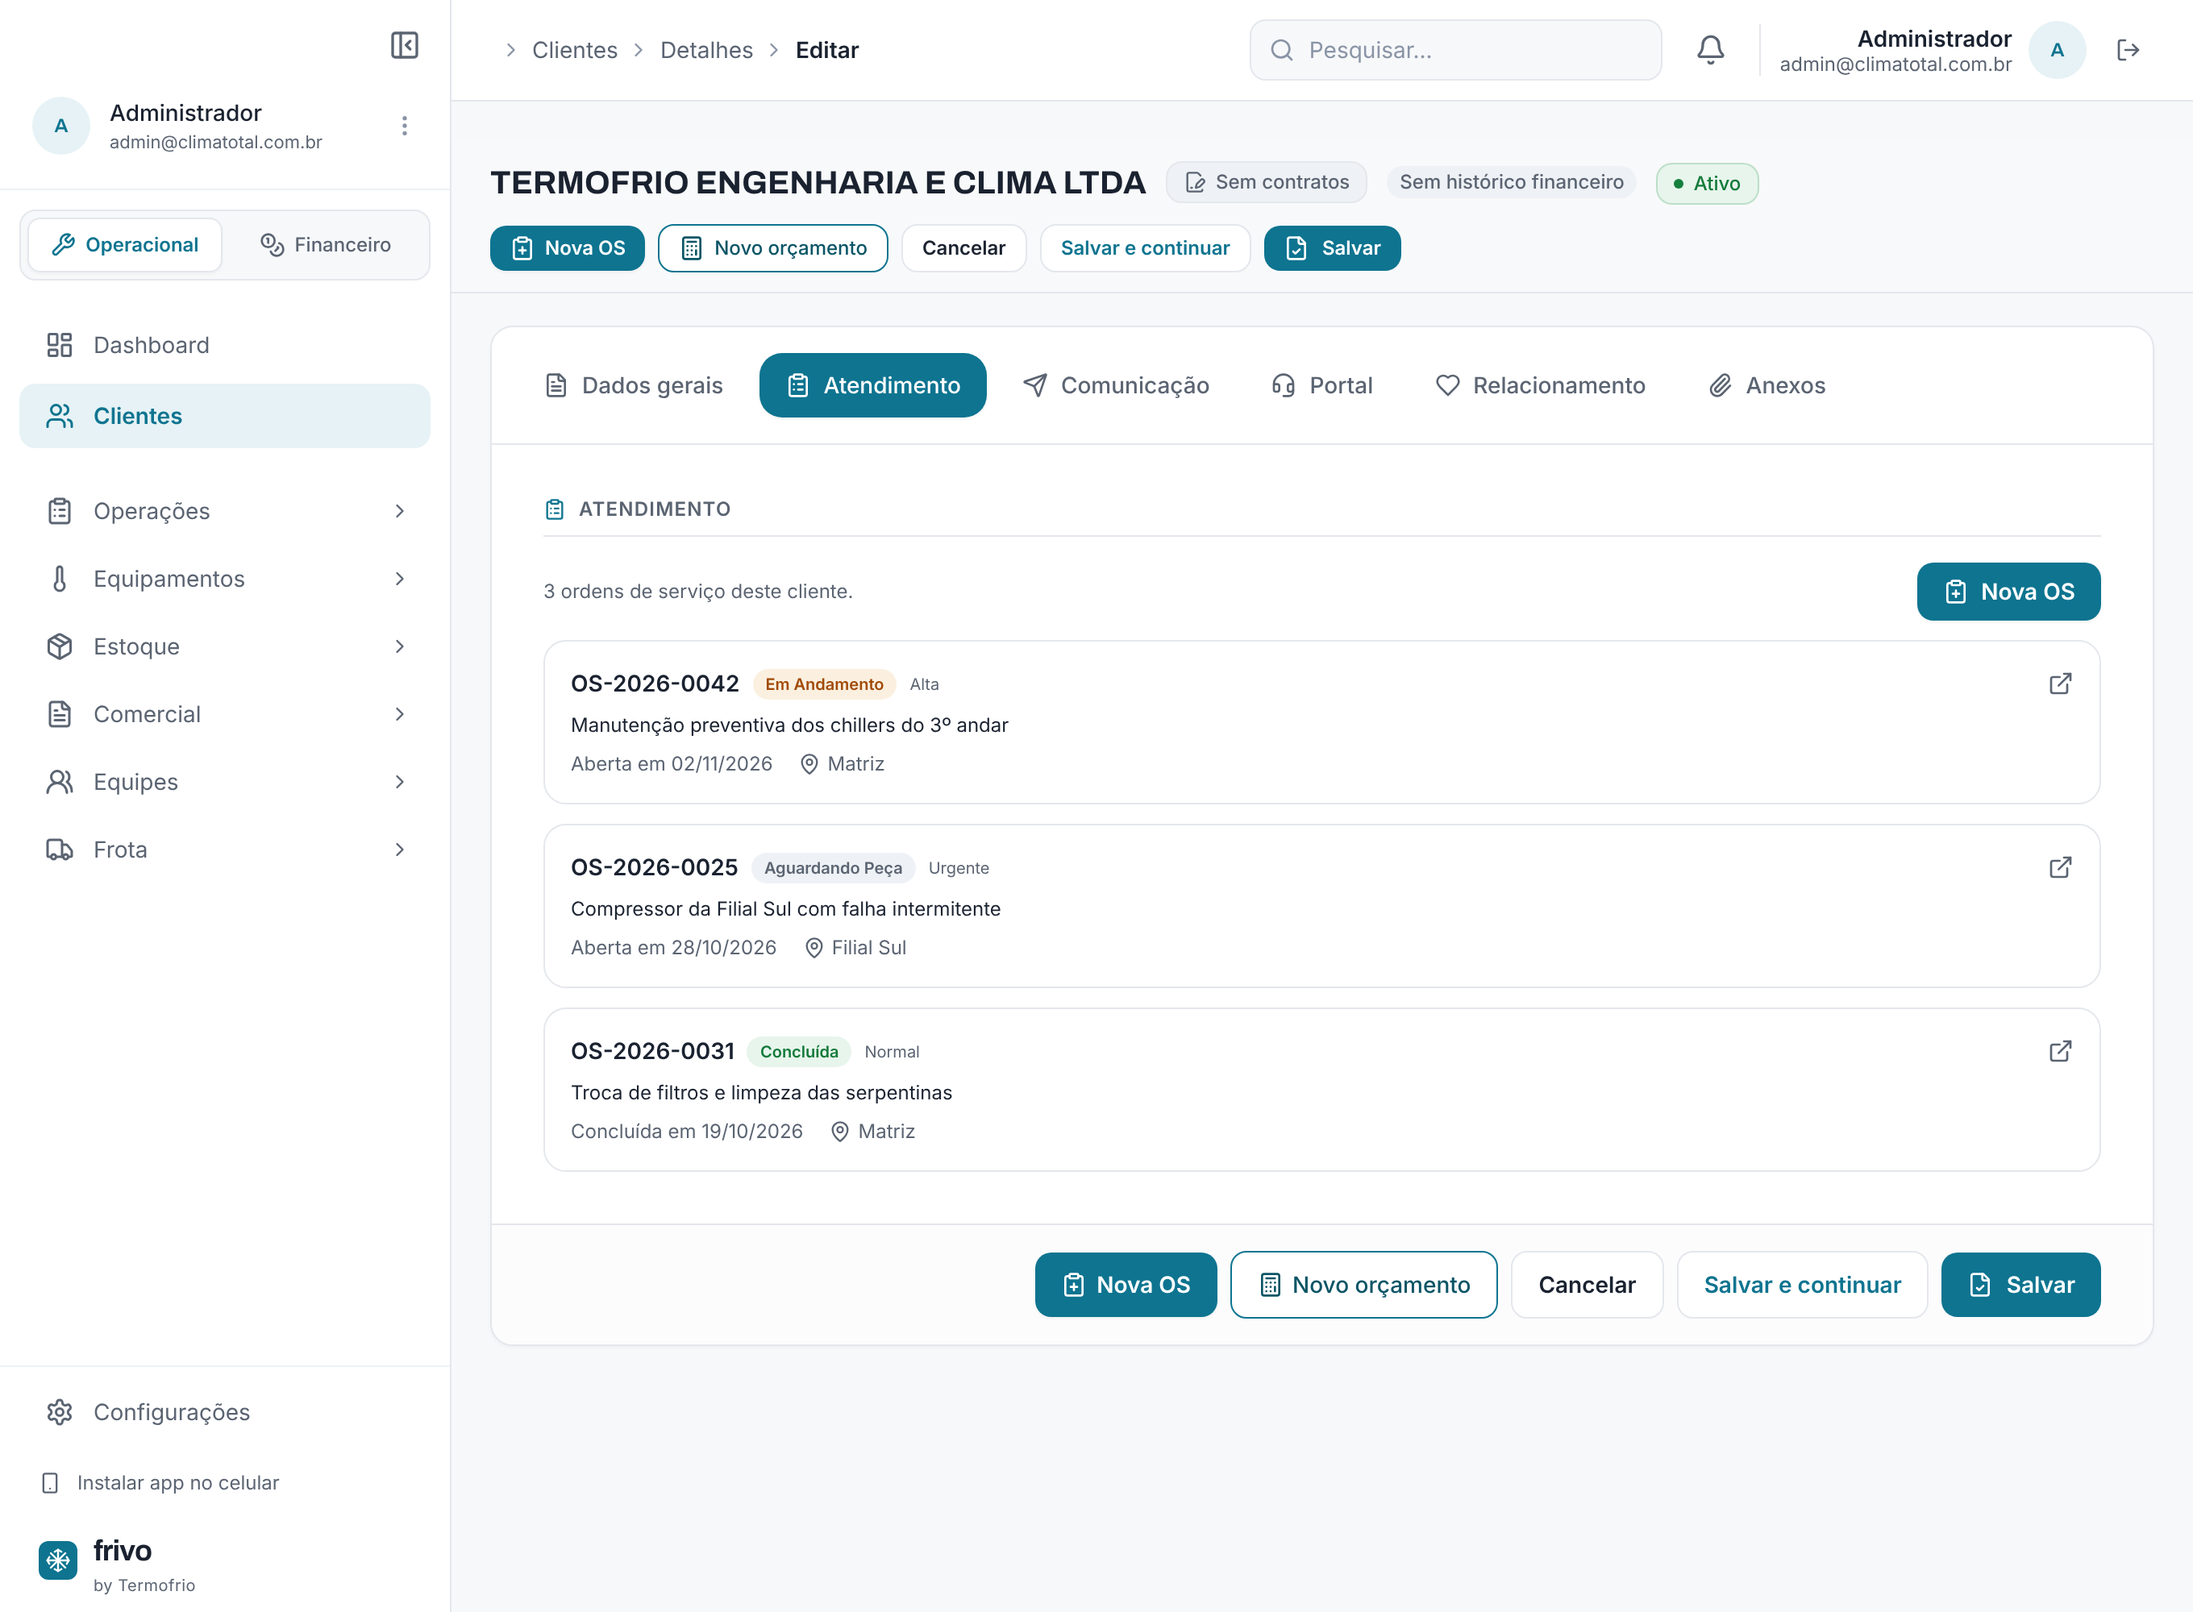
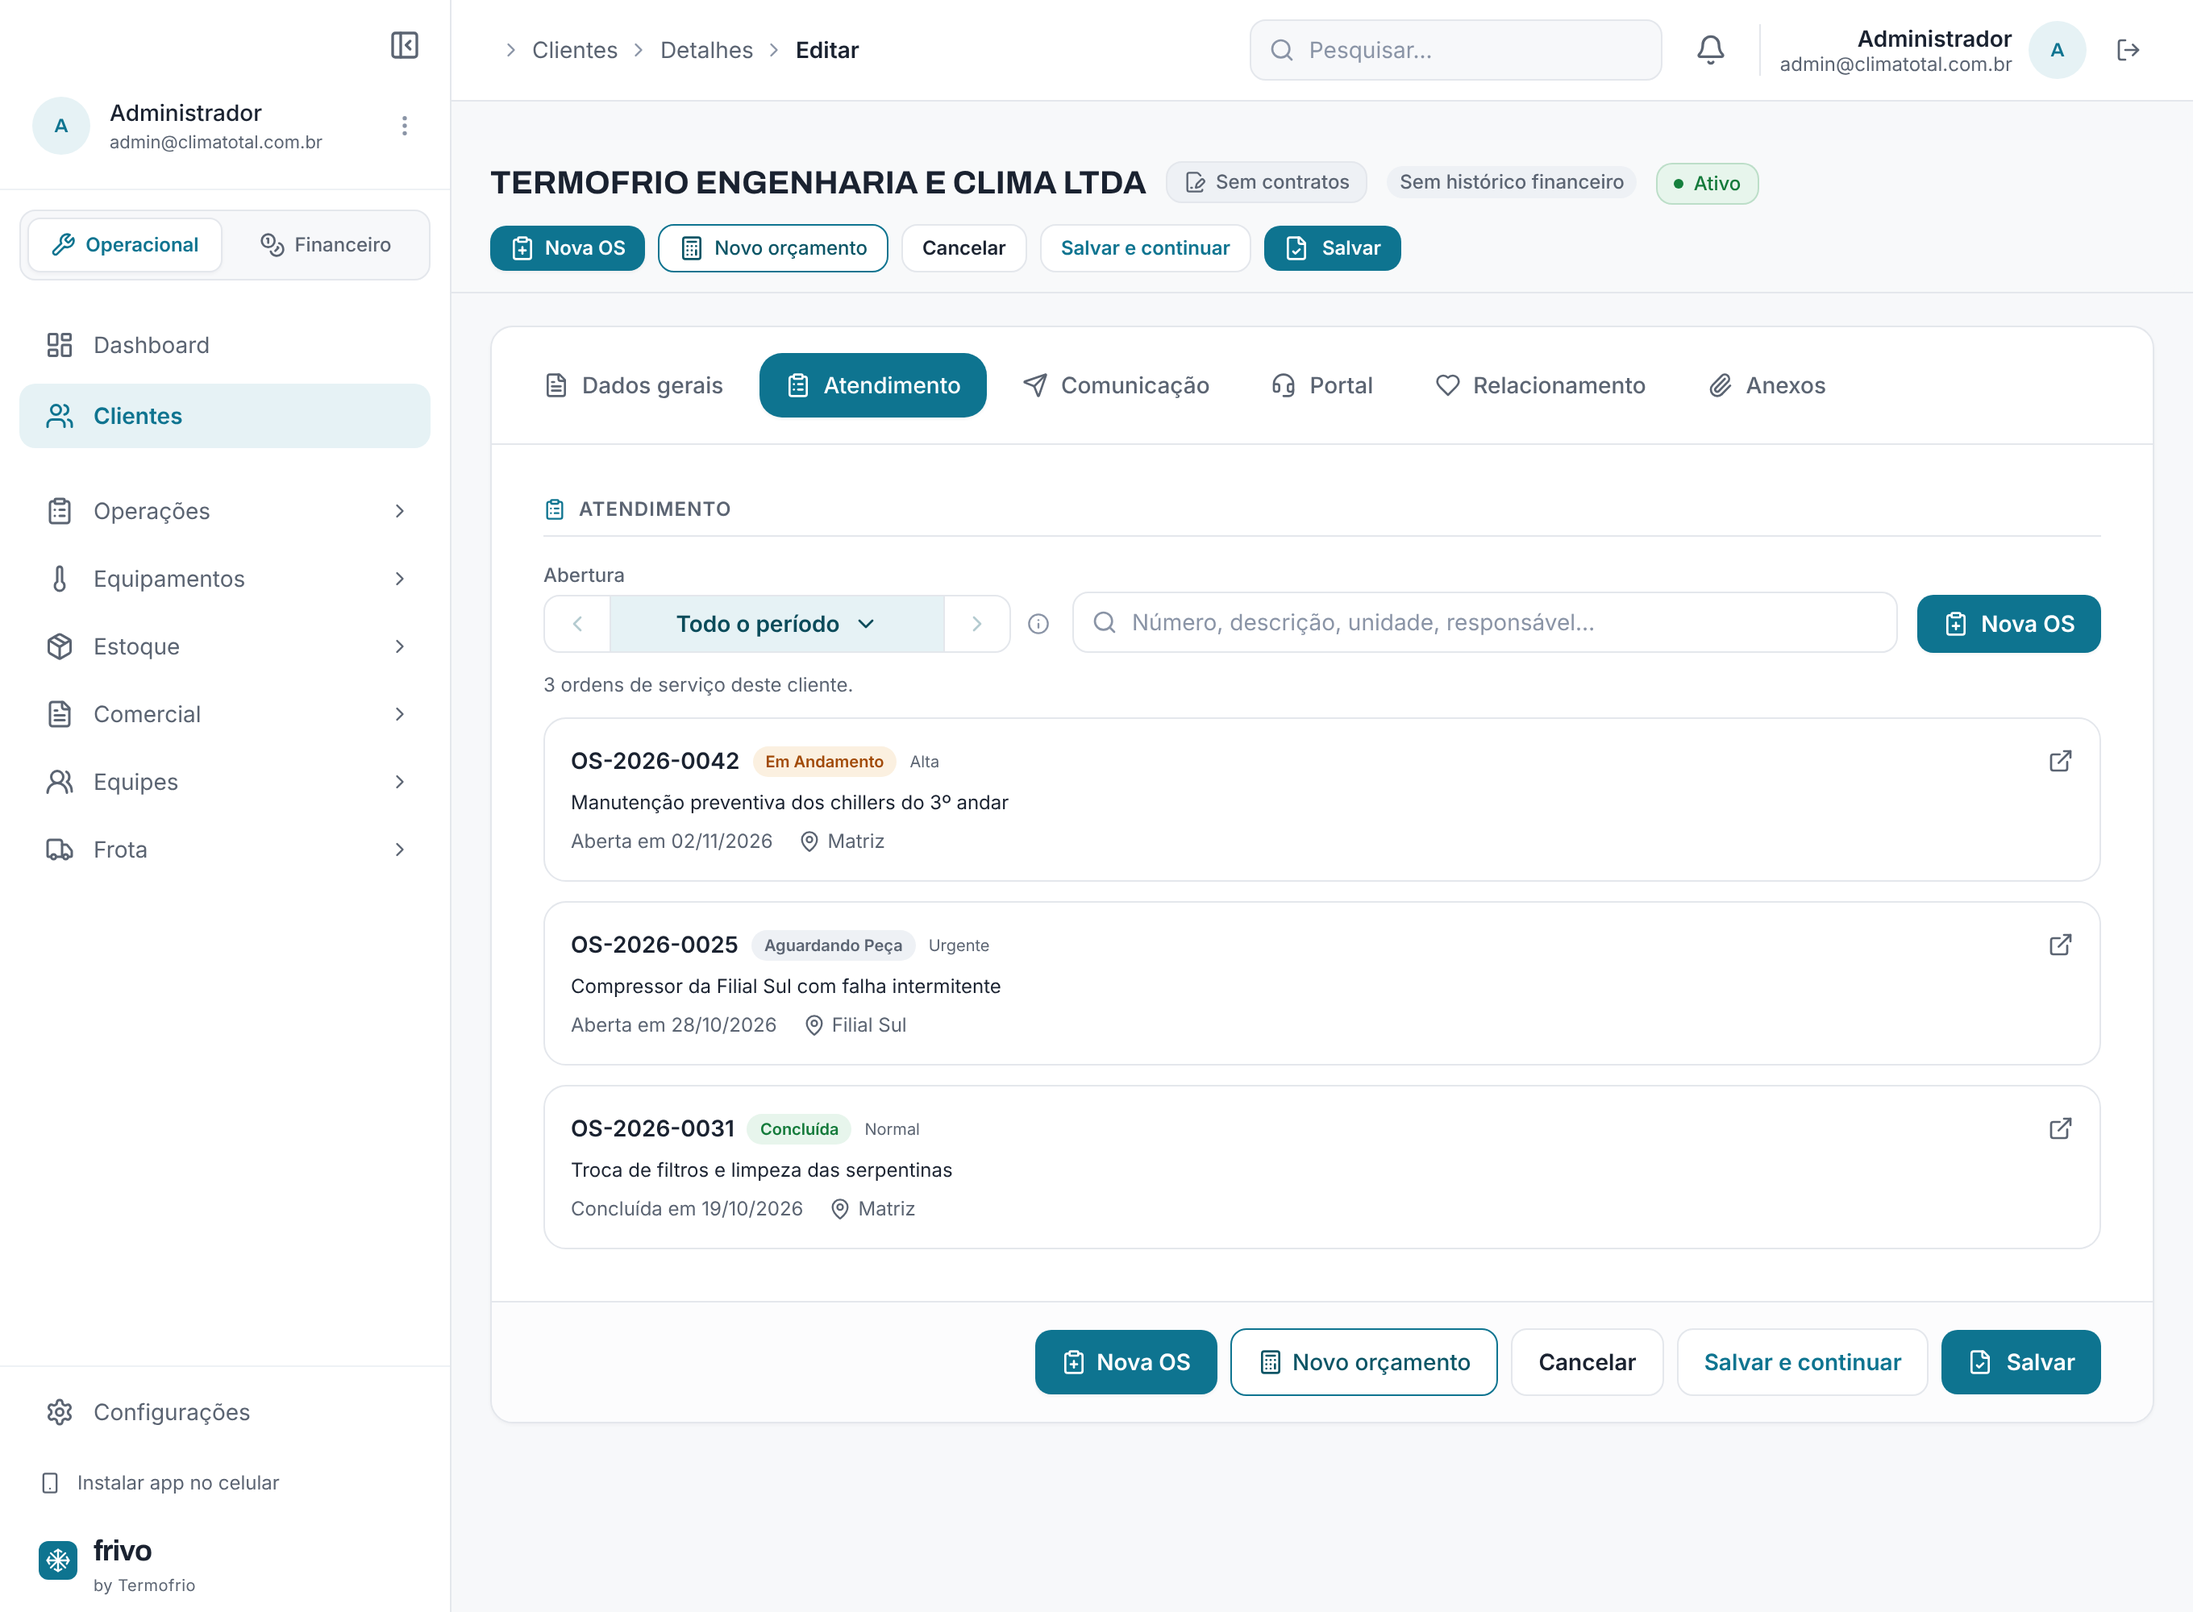
Cliente › Atendimento: filtro por período e busca (padrão da casa)
A aba Atendimento ganha os filtros do padrão da casa:
- Seletor de período (BarraPeriodo, rótulo "Abertura": Hoje, Esta semana,
  Este mês, Este ano, Últimos 30 dias, Últimos 12 meses, Todo o período,
  Período personalizado) — padrão "Todo o período".
- Caixa de busca (CampoBusca, "Pesquisar") por número, descrição, unidade,
  responsável e status.

Ambos filtram em memória a lista já carregada (driven por estado local, sem
tocar na URL). Contador mostra "N de M (filtro aplicado)"; sem resultado,
mensagem clara.

Teste cliente-atendimento-ui cobre a busca filtrando a lista. tsc limpo,
build exit 0, ratchet e glossário (Pesquisar, nunca Buscar) verdes, suíte
completa (PG real) verde.

Claude-Session: https://claude.ai/code/session_01NogQSnn1DhMU16avoGcmWJ

diff --git a/components/forms/atendimento-cliente.tsx b/components/forms/atendimento-cliente.tsx
@@ -1,9 +1,12 @@
 "use client";
 
-import { useEffect, useState } from "react";
+import { useEffect, useMemo, useState } from "react";
 import Link from "next/link";
 import { LABELS_STATUS_OS, LABELS_PRIORIDADE, formatarData, cn } from "@/lib/utils";
 import { ClipboardList, ClipboardPlus, MapPin, User, ExternalLink, Loader2 } from "lucide-react";
+import { BarraPeriodo } from "@/components/listagem/periodo-cards";
+import { CampoBusca } from "@/components/listagem/listagem-ui";
+import { lerPeriodo, faixaDiaCivil, periodoTela, type Periodo } from "@/lib/periodo";
 
 interface OsCard {
   id: string;
@@ -28,9 +31,18 @@ const COR_STATUS_OS: Record<string, string> = {
   CANCELADA: "bg-atrasado-claro text-atrasado-texto",
 };
 
-/** Histórico de ordens de serviço do cliente, com link para cada OS. Só busca quando a aba está ativa. */
+const texto = (os: OsCard) => [
+  os.numero, os.descricao, os.unidade?.nome, os.responsavel?.nome,
+  LABELS_STATUS_OS[os.status] ?? os.status, LABELS_PRIORIDADE[os.prioridade] ?? os.prioridade,
+].filter(Boolean).join(" ").toLowerCase();
+
+/** Histórico de ordens de serviço do cliente, com link para cada OS. Filtra por período (abertura) e
+ *  por busca (número, descrição, unidade, responsável, status). Só busca quando a aba está ativa. */
 export function AtendimentoCliente({ clienteId, ativo }: { clienteId: string; ativo: boolean }) {
   const [ordens, setOrdens] = useState<OsCard[] | null>(null);
+  const [busca, setBusca] = useState("");
+  // Params do período (padrão "todos": mostra o histórico inteiro até filtrar).
+  const [periodoSp, setPeriodoSp] = useState<Record<string, string>>({});
 
   useEffect(() => {
     if (!ativo || ordens !== null) return;
@@ -40,9 +52,33 @@ export function AtendimentoCliente({ clienteId, ativo }: { clienteId: string; at
       .catch(() => setOrdens([]));
   }, [ativo, clienteId, ordens]);
 
+  const periodo = useMemo(
+    () => lerPeriodo(periodoSp, new Date(), { permitirTodos: true, padrao: "todos" }),
+    [periodoSp],
+  );
+  const navegarPeriodo = (m: Record<string, string | null>) => setPeriodoSp((prev) => {
+    const next = { ...prev };
+    for (const [k, v] of Object.entries(m)) { if (v == null || v === "") delete next[k]; else next[k] = v; }
+    return next;
+  });
+
+  const filtradas = useMemo(() => {
+    const faixa = faixaDiaCivil(periodo as Periodo); // null => todo o período
+    const q = busca.trim().toLowerCase();
+    return (ordens ?? []).filter((os) => {
+      if (faixa) {
+        const d = new Date(os.criadoEm);
+        if (faixa.gte && d < faixa.gte) return false;
+        if (faixa.lt && d >= faixa.lt) return false;
+      }
+      if (q && !texto(os).includes(q)) return false;
+      return true;
+    });
+  }, [ordens, periodo, busca]);
+
   const novoHref = `/ordens/nova?clienteId=${clienteId}`;
   const botaoNova = (
-    <Link href={novoHref} className="inline-flex items-center gap-2 bg-primary-500 hover:bg-primary-600 text-white px-4 py-2 rounded-lg text-sm font-semibold transition-all shadow-sm">
+    <Link href={novoHref} className="inline-flex items-center gap-2 bg-primary-500 hover:bg-primary-600 text-white px-4 py-2 rounded-lg text-sm font-semibold transition-all shadow-sm shrink-0">
       <ClipboardPlus className="w-4 h-4" /> Nova OS
     </Link>
   );
@@ -63,38 +99,51 @@ export function AtendimentoCliente({ clienteId, ativo }: { clienteId: string; at
 
   return (
     <div className="space-y-3">
-      <div className="flex items-center justify-between gap-2 flex-wrap">
-        <p className="text-xs text-ink-muted">
-          {ordens.length} {ordens.length === 1 ? "ordem de serviço" : "ordens de serviço"} deste cliente.
-        </p>
+      <div className="flex flex-col sm:flex-row sm:items-end gap-3">
+        <BarraPeriodo periodo={periodoTela(periodo)} navegar={navegarPeriodo} permitirTodos rotulo="Abertura"
+          dica="Filtra as OS pela data de abertura." />
+        <div className="flex-1 min-w-0">
+          <CampoBusca valor={busca} onChange={setBusca} atalho={false} rotulo="Pesquisar"
+            placeholder="Número, descrição, unidade, responsável…" />
+        </div>
         {botaoNova}
       </div>
 
-      <div className="space-y-3">
-        {ordens.map((os) => (
-          <Link key={os.id} href={`/ordens/${os.id}`}
-            className="block border border-surface-border rounded-card p-4 hover:border-primary-300 transition-colors bg-white">
-            <div className="flex items-start justify-between gap-3 flex-wrap">
-              <div className="min-w-0 space-y-2">
-                <div className="flex items-center gap-2 flex-wrap">
-                  <span className="text-sm font-semibold text-ink">{os.numero}</span>
-                  <span className={cn("text-[10px] font-semibold px-2 py-0.5 rounded-full", COR_STATUS_OS[os.status] ?? "bg-surface-linha text-ink-muted")}>
-                    {LABELS_STATUS_OS[os.status] ?? os.status}
-                  </span>
-                  <span className="text-[10px] text-ink-muted">{LABELS_PRIORIDADE[os.prioridade] ?? os.prioridade}</span>
+      <p className="text-xs text-ink-muted">
+        {filtradas.length === ordens.length
+          ? `${ordens.length} ${ordens.length === 1 ? "ordem de serviço" : "ordens de serviço"} deste cliente.`
+          : `${filtradas.length} de ${ordens.length} ${ordens.length === 1 ? "ordem" : "ordens"} (filtro aplicado).`}
+      </p>
+
+      {filtradas.length === 0 ? (
+        <p className="text-sm text-ink-muted py-6 text-center">Nenhuma OS no período ou busca selecionados.</p>
+      ) : (
+        <div className="space-y-3">
+          {filtradas.map((os) => (
+            <Link key={os.id} href={`/ordens/${os.id}`}
+              className="block border border-surface-border rounded-card p-4 hover:border-primary-300 transition-colors bg-white">
+              <div className="flex items-start justify-between gap-3 flex-wrap">
+                <div className="min-w-0 space-y-2">
+                  <div className="flex items-center gap-2 flex-wrap">
+                    <span className="text-sm font-semibold text-ink">{os.numero}</span>
+                    <span className={cn("text-[10px] font-semibold px-2 py-0.5 rounded-full", COR_STATUS_OS[os.status] ?? "bg-surface-linha text-ink-muted")}>
+                      {LABELS_STATUS_OS[os.status] ?? os.status}
+                    </span>
+                    <span className="text-[10px] text-ink-muted">{LABELS_PRIORIDADE[os.prioridade] ?? os.prioridade}</span>
+                  </div>
+                  <p className="text-xs text-ink line-clamp-2">{os.descricao}</p>
+                  <div className="flex items-center gap-x-4 gap-y-1 flex-wrap text-xs text-ink-muted">
+                    <span>{os.dataConclusao ? `Concluída em ${formatarData(os.dataConclusao)}` : `Aberta em ${formatarData(os.criadoEm)}`}</span>
+                    {os.unidade && <span className="flex items-center gap-1"><MapPin className="w-3.5 h-3.5" /> {os.unidade.nome}</span>}
+                    {os.responsavel && <span className="flex items-center gap-1"><User className="w-3.5 h-3.5" /> {os.responsavel.nome}</span>}
+                  </div>
                 </div>
-                <p className="text-xs text-ink line-clamp-2">{os.descricao}</p>
-                <div className="flex items-center gap-x-4 gap-y-1 flex-wrap text-xs text-ink-muted">
-                  <span>{os.dataConclusao ? `Concluída em ${formatarData(os.dataConclusao)}` : `Aberta em ${formatarData(os.criadoEm)}`}</span>
-                  {os.unidade && <span className="flex items-center gap-1"><MapPin className="w-3.5 h-3.5" /> {os.unidade.nome}</span>}
-                  {os.responsavel && <span className="flex items-center gap-1"><User className="w-3.5 h-3.5" /> {os.responsavel.nome}</span>}
-                </div>
+                <ExternalLink className="w-4 h-4 text-ink-muted shrink-0 mt-0.5" />
               </div>
-              <ExternalLink className="w-4 h-4 text-ink-muted shrink-0 mt-0.5" />
-            </div>
-          </Link>
-        ))}
-      </div>
+            </Link>
+          ))}
+        </div>
+      )}
     </div>
   );
 }

diff --git a/tests/unit/cliente-atendimento-ui.test.ts b/tests/unit/cliente-atendimento-ui.test.ts
@@ -23,6 +23,11 @@ const flush = async () => { for (let i = 0; i < 8; i++) await act(async () => { 
 const $$ = (sel: string) => [...caixa.querySelectorAll(sel)] as HTMLElement[];
 const txt = (el: Element | null) => (el?.textContent ?? "").replace(/\s+/g, " ").trim();
 async function clicar(el: Element | null | undefined) { expect(el).toBeTruthy(); await act(async () => { (el as HTMLElement).click(); }); await flush(); }
+async function digitar(el: Element | null, v: string) {
+  expect(el).toBeTruthy();
+  await act(async () => { Object.getOwnPropertyDescriptor(HTMLInputElement.prototype, "value")!.set!.call(el, v); el!.dispatchEvent(new Event("input", { bubbles: true })); });
+  await flush();
+}
 
 async function montar(initialData: any, permissoes: Permissoes = permissoesTotais()) {
   const { PermissoesProvider } = await import("@/components/providers/permissoes-provider");
@@ -65,6 +70,22 @@ describe("Aba Atendimento do cliente", () => {
     const hrefs = $$("a").map((a) => a.getAttribute("href"));
     expect(hrefs).toContain("/ordens/os_1");
     expect(hrefs).toContain("/ordens/os_2");
+  });
+
+  it("a busca filtra as OS (por descrição/número/unidade)", async () => {
+    ordensResp = [
+      { id: "os_1", numero: "OS-0001", status: "EM_ANDAMENTO", prioridade: "ALTA", descricao: "Manutenção do chiller", criadoEm: "2026-10-01T12:00:00Z", dataConclusao: null, unidade: { id: "u1", nome: "Matriz" }, responsavel: { id: "t1", nome: "Carlos" } },
+      { id: "os_2", numero: "OS-0002", status: "CONCLUIDA", prioridade: "NORMAL", descricao: "Troca de filtro", criadoEm: "2026-09-10T12:00:00Z", dataConclusao: "2026-09-12T12:00:00Z", unidade: null, responsavel: null },
+    ];
+    await montar(CLIENTE);
+    await clicar(abaAtendimento());
+    const campo = $$("input").find((i) => /Número, descrição/.test(i.getAttribute("placeholder") ?? ""));
+    await digitar(campo ?? null, "chiller");
+    const corpo = caixa.textContent ?? "";
+    expect(corpo).toContain("OS-0001");
+    expect(corpo).not.toContain("OS-0002");
+    // contador reflete o filtro (1 de 2)
+    expect(corpo).toContain("1 de 2");
   });
 
   it("sem OS: mostra mensagem vazia e o atalho Nova OS", async () => {

diff --git a/docs/cliente-abas-atendimento.md b/docs/cliente-abas-atendimento.md
@@ -12,6 +12,11 @@ concluída), a unidade e o responsável. No topo, um atalho **Nova OS**
 
 - Componente `components/forms/atendimento-cliente.tsx`: busca `GET /api/ordens?clienteId={id}`
   (rota já existente) **só quando a aba abre** (prop `ativo`), no padrão das abas Comunicação/Portal.
+- **Filtros (padrão da casa):** um seletor de **período** (`BarraPeriodo`, rótulo "Abertura" — Hoje,
+  Esta semana, Este mês, Este ano, Últimos 30 dias, Últimos 12 meses, Todo o período, Período
+  personalizado) e uma **caixa de busca** (`CampoBusca`) por número, descrição, unidade, responsável
+  e status. Ambos filtram em memória a lista já carregada; o contador mostra "N de M (filtro
+  aplicado)" e, sem resultado, uma mensagem clara. Padrão: "Todo o período".
 - No cliente **novo** (ainda sem id), a aba mostra "Salve o cliente para ver o histórico de
   atendimento".
 
@@ -30,7 +35,8 @@ mostra **erros**.
 ## Testes
 
 - `cliente-atendimento-ui`: a aba Atendimento lista as OS do cliente com link para cada uma
-  (`/ordens/{id}`); vazio mostra a mensagem + atalho Nova OS.
+  (`/ordens/{id}`); a busca filtra a lista (contador "1 de 2"); vazio mostra a mensagem + atalho
+  Nova OS.
 - `cliente-abas-enxugar-ui`: as abas são exatamente Dados gerais, Atendimento, Comunicação, Portal,
   Relacionamento, Anexos — com **Anexos por último**.
 - `cliente-cnpj-autofill-ui` / `autofill-cnpj`: a consulta preenche razão social e contato, **sem**
